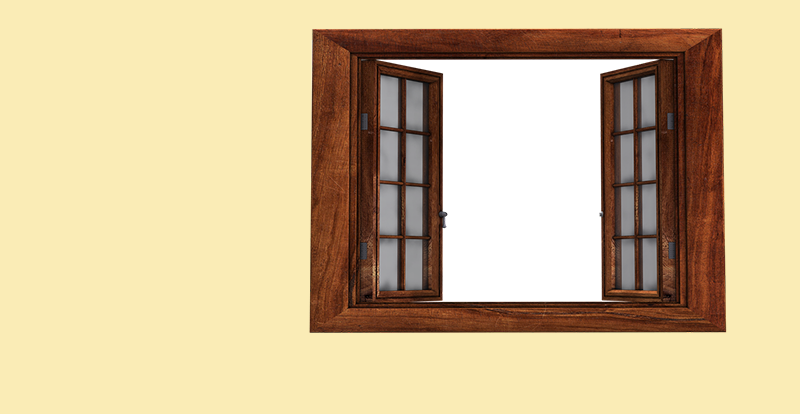
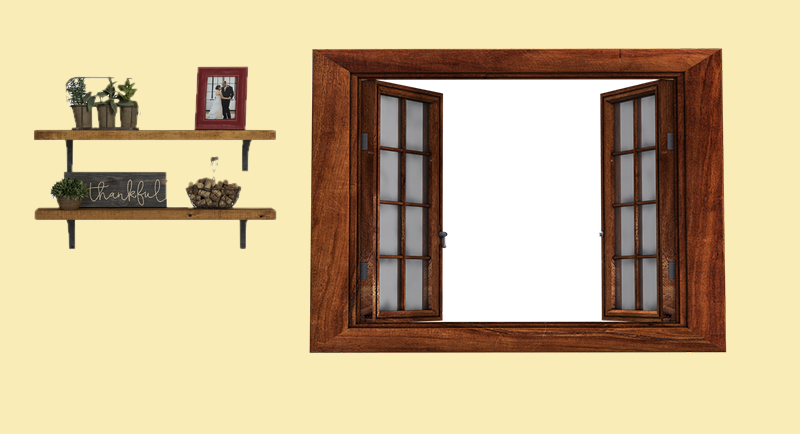
New wall graphic.

diff --git a/index.js b/index.js
@@ -414,7 +414,7 @@ window.addEventListener('load', function(){
   ];
     
   //LOCATION
-  let nftName = "Los Angeles";
+  let nftName = "Vancouver";
 
   //CANVAS
   const canvas = document.getElementById("Canvas");
@@ -576,9 +576,9 @@ window.addEventListener('load', function(){
   class Wall {
     constructor(){
       this.width = 800;
-      this.height = 414;
+      this.height = 434;
       this.x = 0;
-      this.y = 0;
+      this.y = -20;
       this.image = document.querySelector(".wall");
     }
     draw(context){
